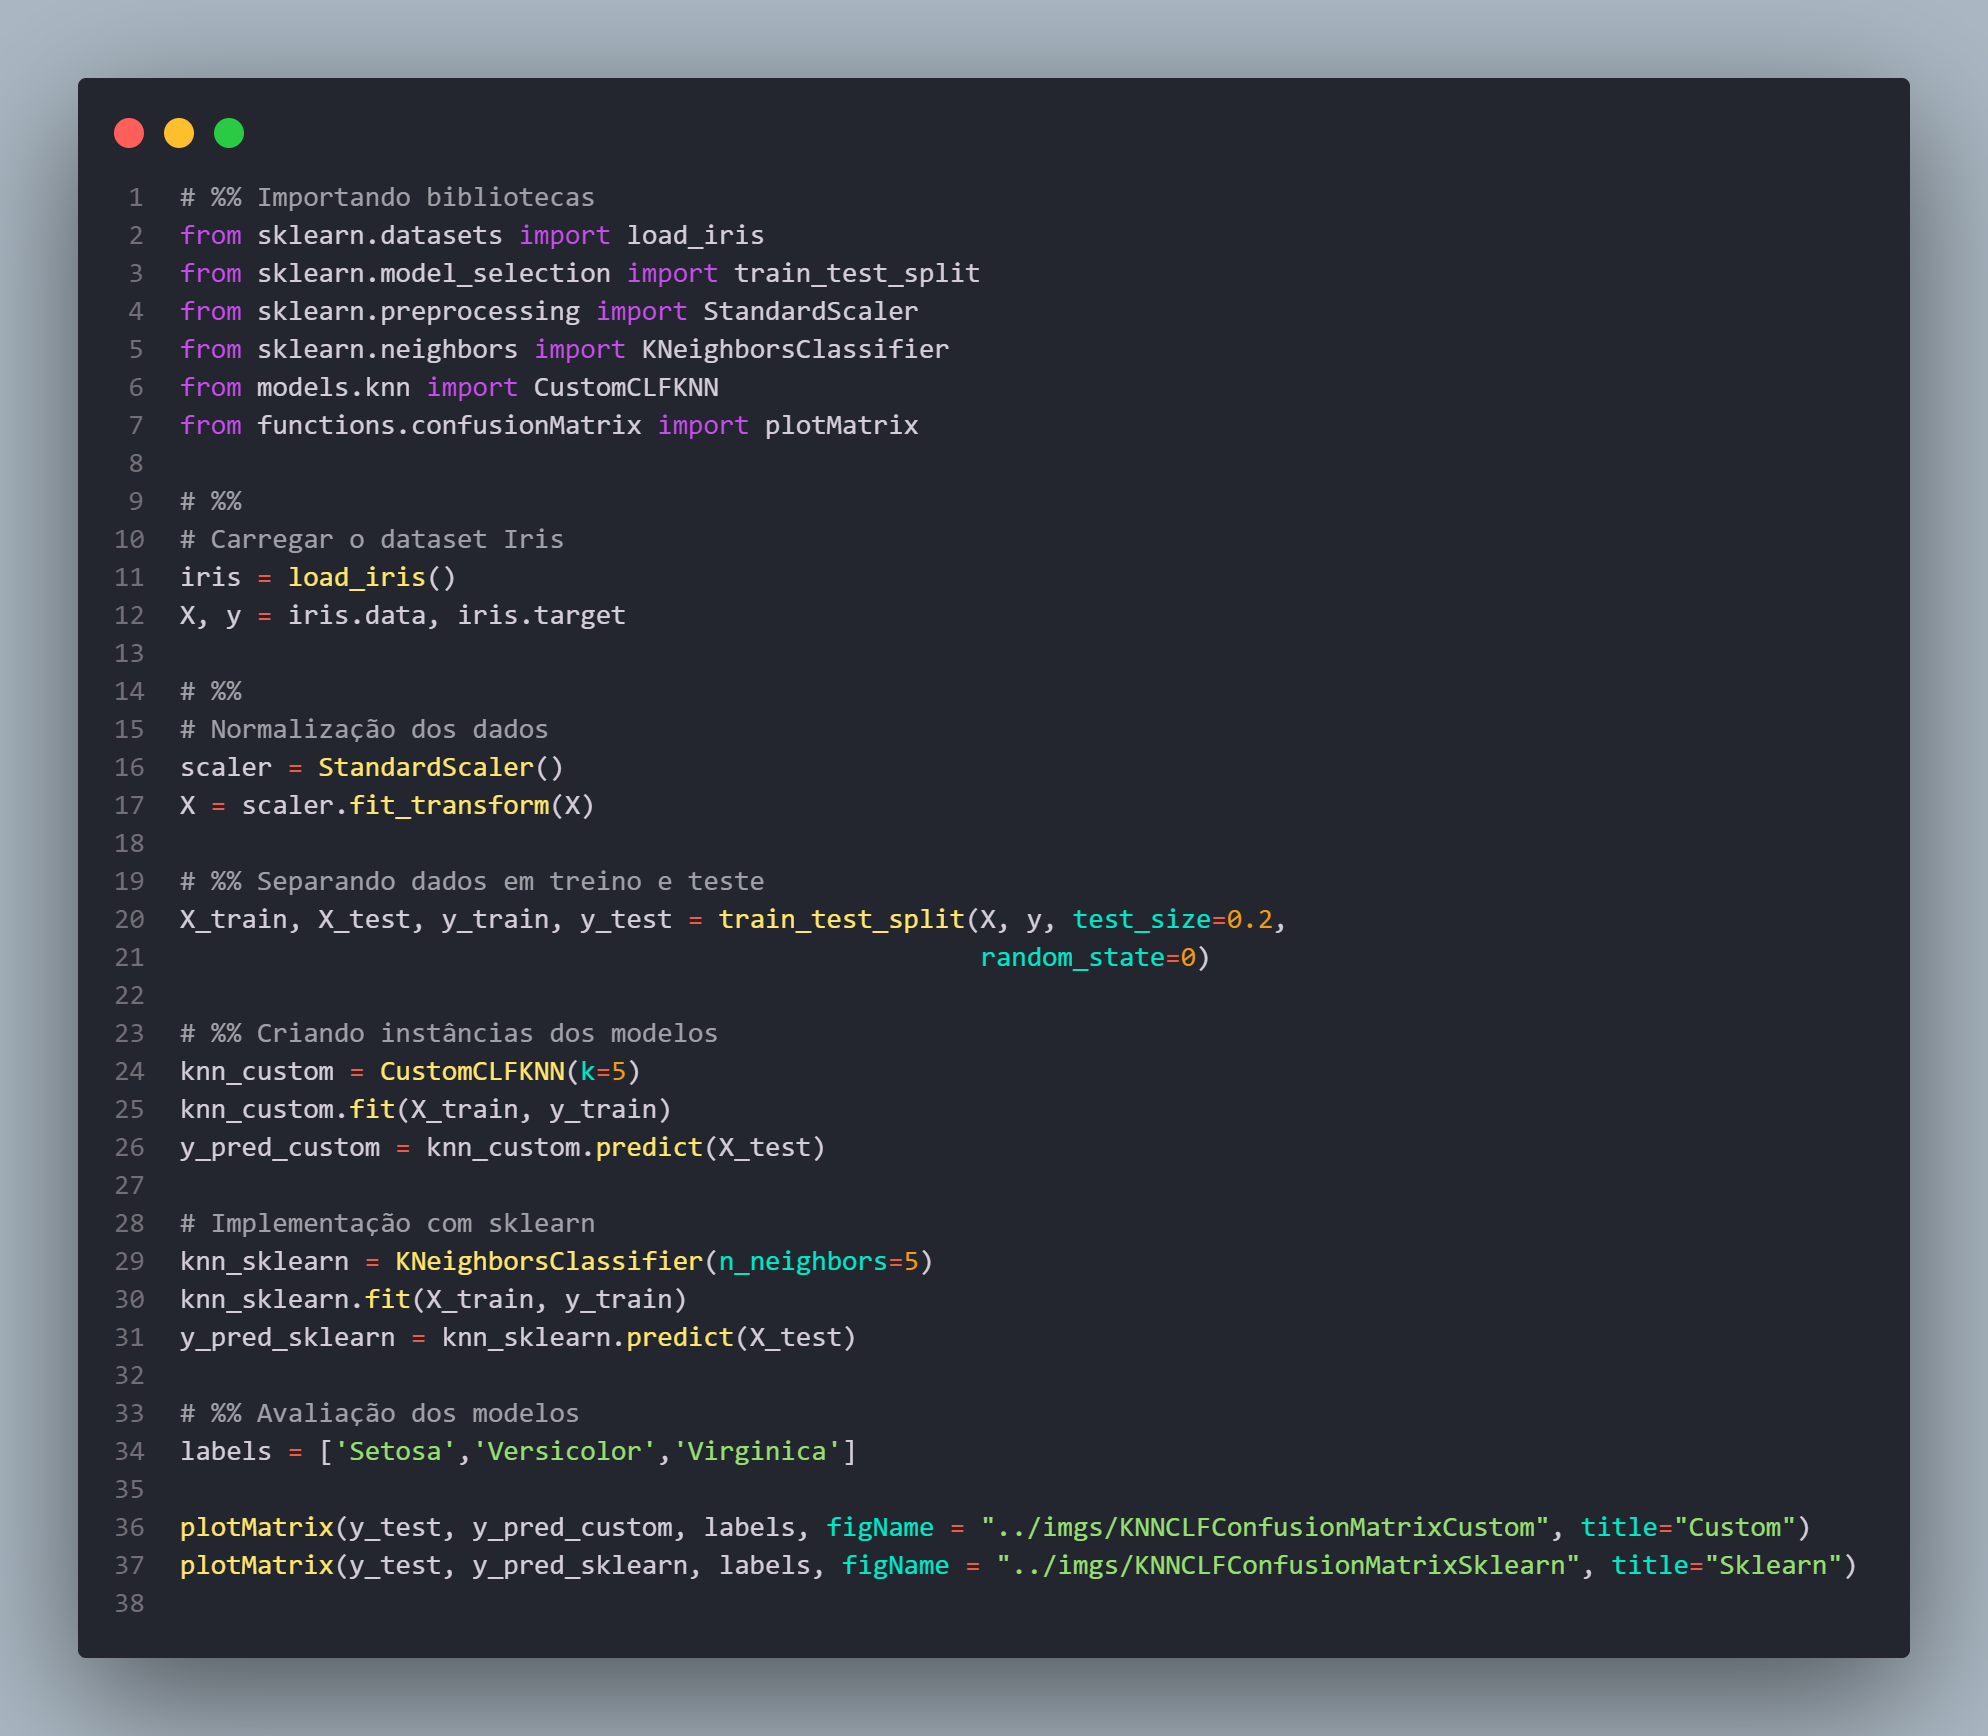
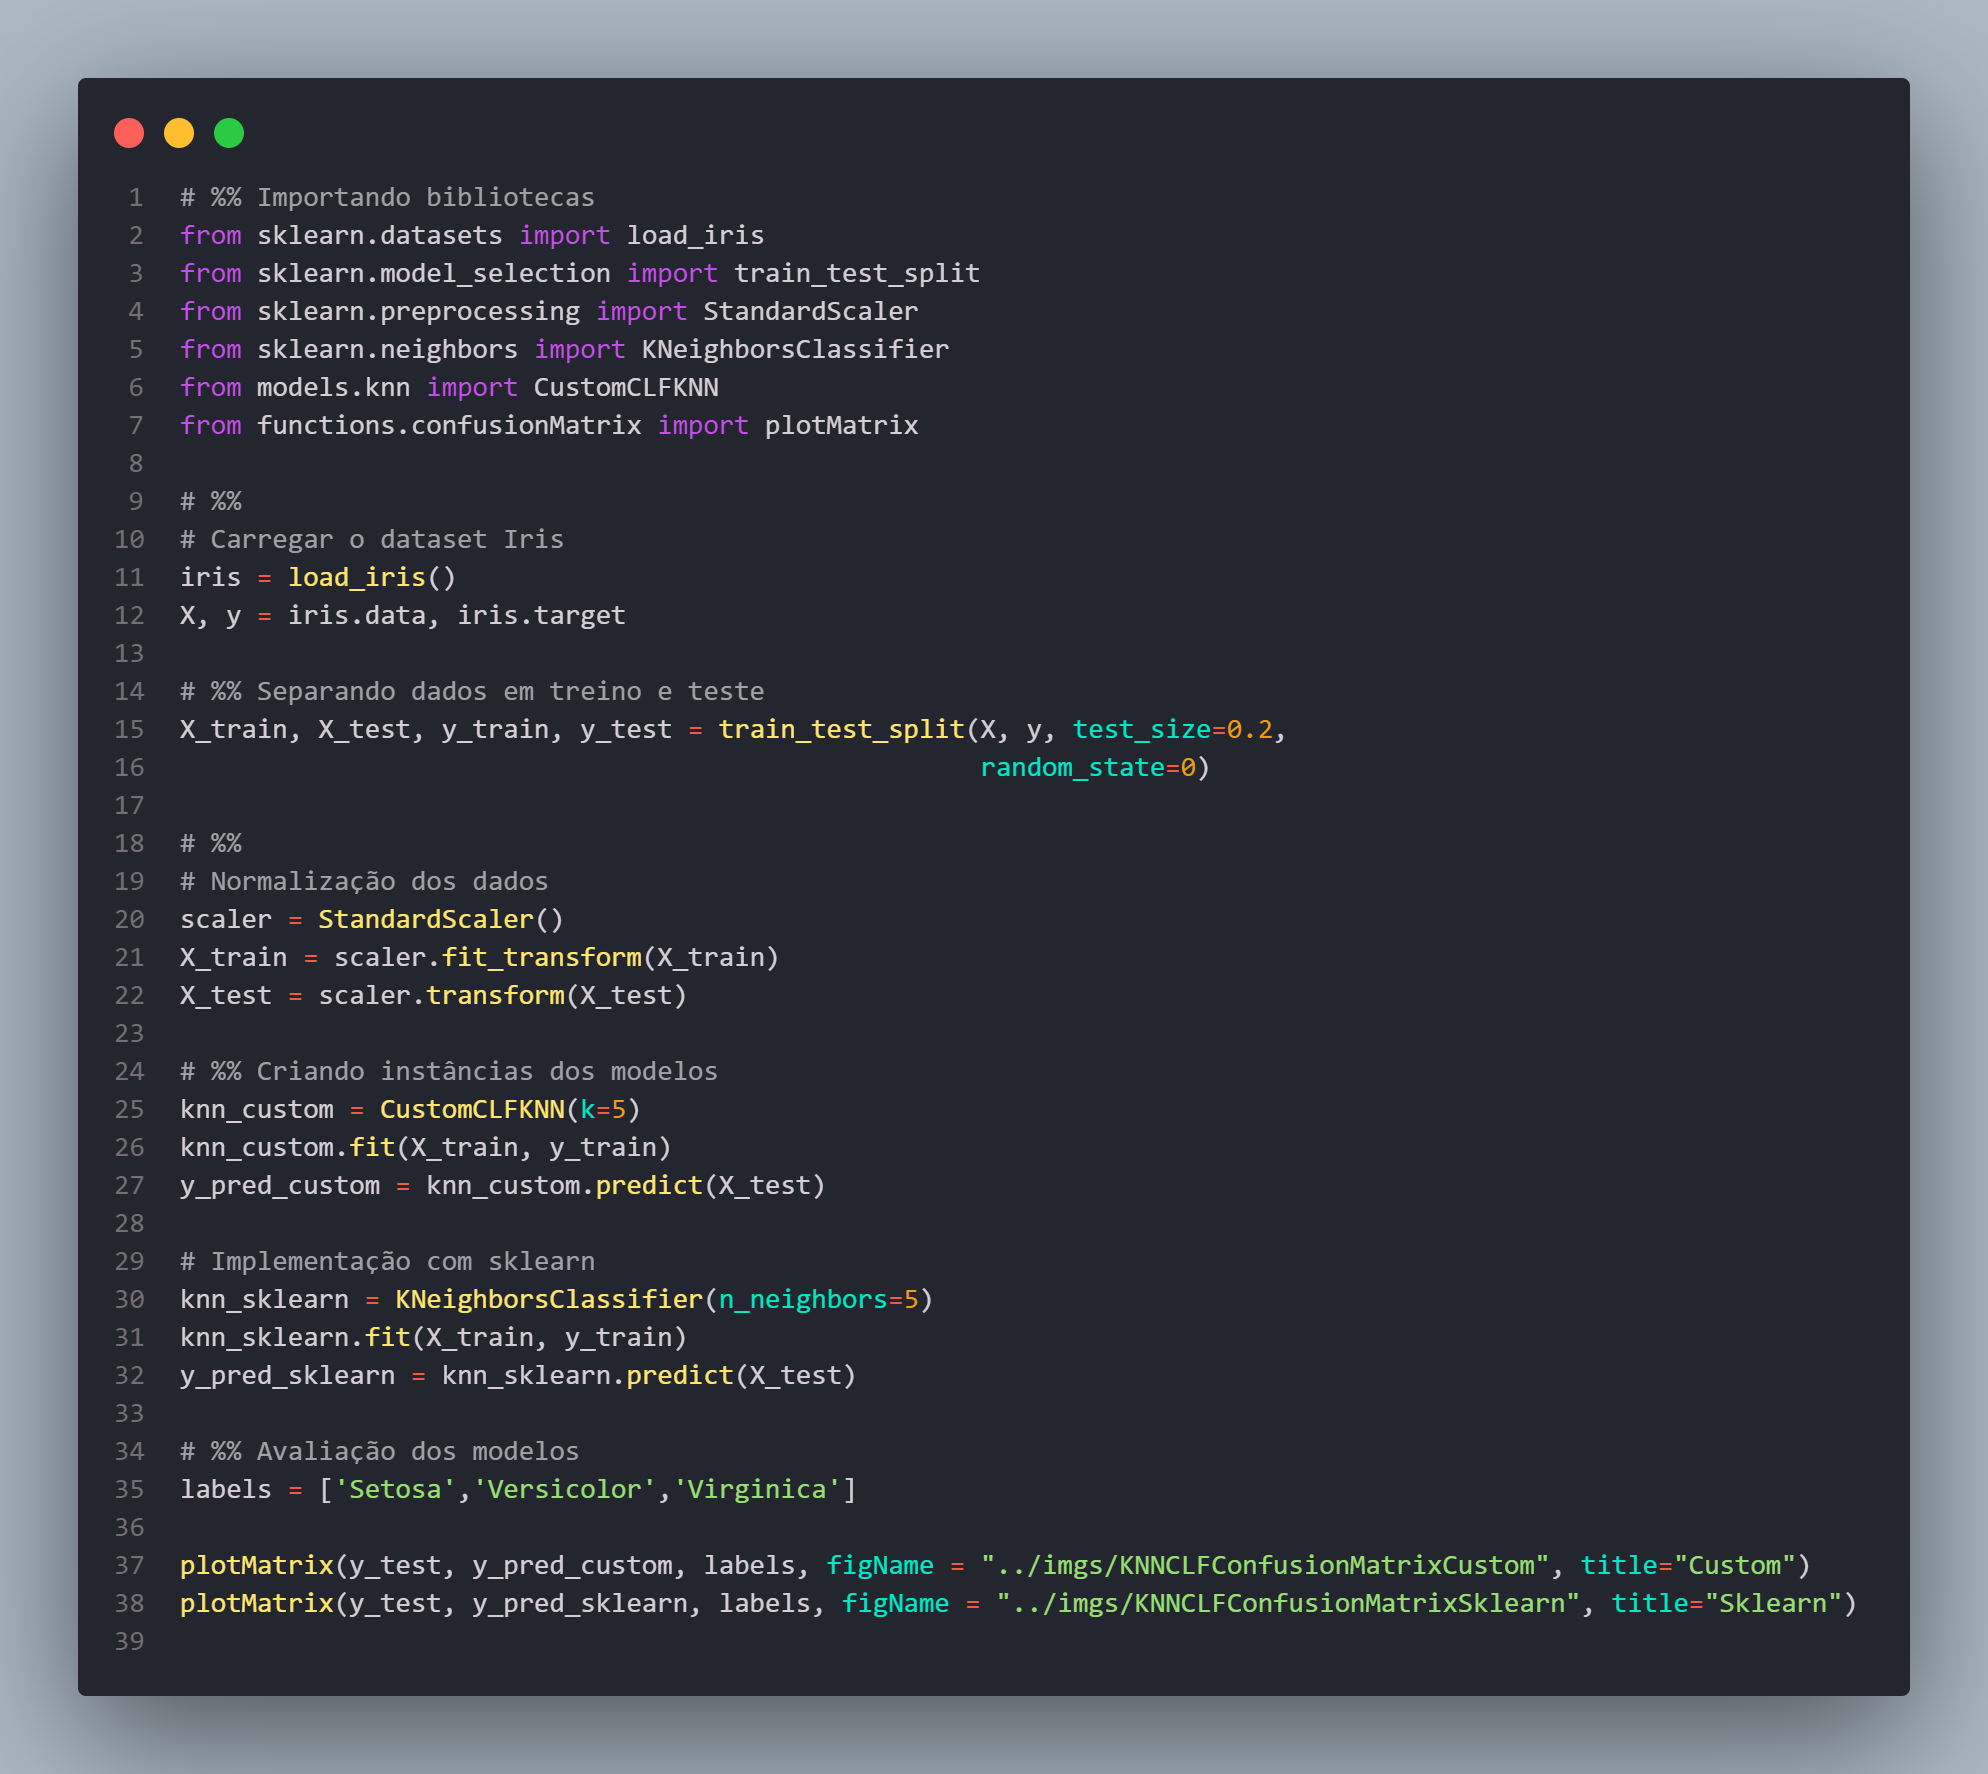
new: implementação do algoritmo knn para regressão

diff --git a/src/models/knn.py b/src/models/knn.py
@@ -5,7 +5,7 @@ from collections import Counter
 def euclidean_distance(x1, x2):
     return np.sqrt(np.sum((x1 - x2) ** 2))
 
-# Implementação do kNN
+# Implementação do KNN CLF
 class CustomCLFKNN:
     def __init__(self, k=3):
         self.k = k
@@ -31,3 +31,37 @@ class CustomCLFKNN:
         # Determina a classe majoritária
         most_common = Counter(k_nearest_labels).most_common(1)
         return most_common[0][0]
+
+
+import numpy as np
+
+# Função para calcular a distância Euclidiana
+def euclidean_distance(x1, x2):
+    return np.sqrt(np.sum((x1 - x2) ** 2))
+
+# Implementação do kNN para regressão
+class CustomREGKNN:
+    def __init__(self, k=3):
+        self.k = k
+
+    def fit(self, X_train, y_train):
+        self.X_train = X_train
+        self.y_train = y_train
+
+    def predict(self, X_test):
+        predictions = [self._predict(x) for x in X_test]
+        return np.array(predictions)
+
+    def _predict(self, x):
+        # Calcula a distância para todos os pontos no conjunto de treinamento
+        distances = [euclidean_distance(x, x_train) for x_train in self.X_train]
+        
+        # Obtém os índices dos k vizinhos mais próximos
+        k_indices = np.argsort(distances)[:self.k]
+        
+        # Obtém os valores de y dos k vizinhos mais próximos
+        k_nearest_values = [self.y_train[i] for i in k_indices]
+        
+        # Retorna a média dos valores como predição
+        return np.mean(k_nearest_values)
+

diff --git a/src/main_knn_reg.py b/src/main_knn_reg.py
@@ -1,0 +1,36 @@
+# %% Importando bibliotecas
+from sklearn.datasets import load_diabetes
+from sklearn.model_selection import train_test_split
+from sklearn.preprocessing import StandardScaler
+from sklearn.neighbors import KNeighborsRegressor
+from models.knn import CustomREGKNN
+from functions.metrics import plotRegressionMetrics
+
+# %% Carregar o dataset Diabetes
+diabetes = load_diabetes()
+X, y = diabetes.data, diabetes.target
+
+# %% Separando dados em treino e teste
+X_train, X_test, y_train, y_test = train_test_split(X, y, test_size=0.2, random_state=0)
+
+# %%
+# Normalização dos dados
+scaler = StandardScaler()
+X_train = scaler.fit_transform(X_train)
+X_test = scaler.transform(X_test)
+
+# %% Criando instâncias dos modelos
+# Modelo customizado
+knn_custom = CustomREGKNN(k=5)
+knn_custom.fit(X_train, y_train)
+y_pred_custom = knn_custom.predict(X_test)
+
+# Implementação com sklearn
+knn_sklearn = KNeighborsRegressor(n_neighbors=5)
+knn_sklearn.fit(X_train, y_train)
+y_pred_sklearn = knn_sklearn.predict(X_test)
+
+# %% Avaliação dos modelos
+# Função de avaliação personalizada
+plotRegressionMetrics(y_test, y_pred_custom, figName="../imgs/KNNREGMetricsCustom", title="Custom")
+plotRegressionMetrics(y_test, y_pred_sklearn, figName="../imgs/KNNREGMetricsSklearn", title="Sklearn")

diff --git a/src/functions/metrics.py b/src/functions/metrics.py
@@ -1,0 +1,17 @@
+import matplotlib.pyplot as plt
+from sklearn.metrics import mean_squared_error, r2_score
+import numpy as np
+
+def plotRegressionMetrics(y_true, y_pred, figName, title):
+    mse = mean_squared_error(y_true, y_pred)
+    rmse = np.sqrt(mse)
+    r2 = r2_score(y_true, y_pred)
+
+    plt.figure(figsize=(8, 6))
+    plt.scatter(y_true, y_pred, alpha=0.7)
+    plt.plot([y_true.min(), y_true.max()], [y_true.min(), y_true.max()], 'k--', lw=2)
+    plt.xlabel("Valores Reais")
+    plt.ylabel("Valores Preditos")
+    plt.title(f"{title} (RMSE: {rmse:.2f}, R²: {r2:.2f})")
+    plt.savefig(figName)
+    plt.show()

diff --git a/src/main_knn_clf.py b/src/main_knn_clf.py
@@ -11,14 +11,15 @@ from functions.confusionMatrix import plotMatrix
 iris = load_iris()
 X, y = iris.data, iris.target
 
-# %%
-# Normalização dos dados
-scaler = StandardScaler()
-X = scaler.fit_transform(X)
-
 # %% Separando dados em treino e teste
 X_train, X_test, y_train, y_test = train_test_split(X, y, test_size=0.2,
                                                     random_state=0)
+
+# %%
+# Normalização dos dados
+scaler = StandardScaler()
+X_train = scaler.fit_transform(X_train)
+X_test = scaler.transform(X_test)
 
 # %% Criando instâncias dos modelos
 knn_custom = CustomCLFKNN(k=5)

diff --git a/README.md b/README.md
@@ -7,7 +7,7 @@ Este repositório tem como objetivo implementar manualmente os principais algori
 ### Regressão
 
 - Regressão linear ✔
-- KNN
+- KNN ✔
 - SVM
 - Árvore de decisão
 - Random Forest
@@ -28,8 +28,13 @@ Este repositório tem como objetivo implementar manualmente os principais algori
 ├── README.md
 ├── imgs
 │   ├── KNNCLF.png
+│   ├── KNNCLFCLASS.png
 │   ├── KNNCLFConfusionMatrixCustom.png
 │   ├── KNNCLFConfusionMatrixSklearn.png
+│   ├── KNNREG.png
+│   ├── KNNREGCLASS.png
+│   ├── KNNREGMetricsCustom.png
+│   ├── KNNREGMetricsSklearn.png
 │   ├── LinearReg.png
 │   ├── LogisticReg.png
 │   ├── LogisticRegConfusionMatrixCustom.png
@@ -37,8 +42,10 @@ Este repositório tem como objetivo implementar manualmente os principais algori
 └── src
     ├── functions
     │   ├── __init__.py
-    │   └── confusionMatrix.py
+    │   ├── confusionMatrix.py
+    │   └── metrics.py
     ├── main_knn_clf.py
+    ├── main_knn_reg.py
     ├── main_linear_reg.py
     ├── main_logistic_reg.py
     └── models
@@ -46,5 +53,4 @@ Este repositório tem como objetivo implementar manualmente os principais algori
         ├── RegLogistic.py
         ├── __init__.py
         └── knn.py
-
 ```
